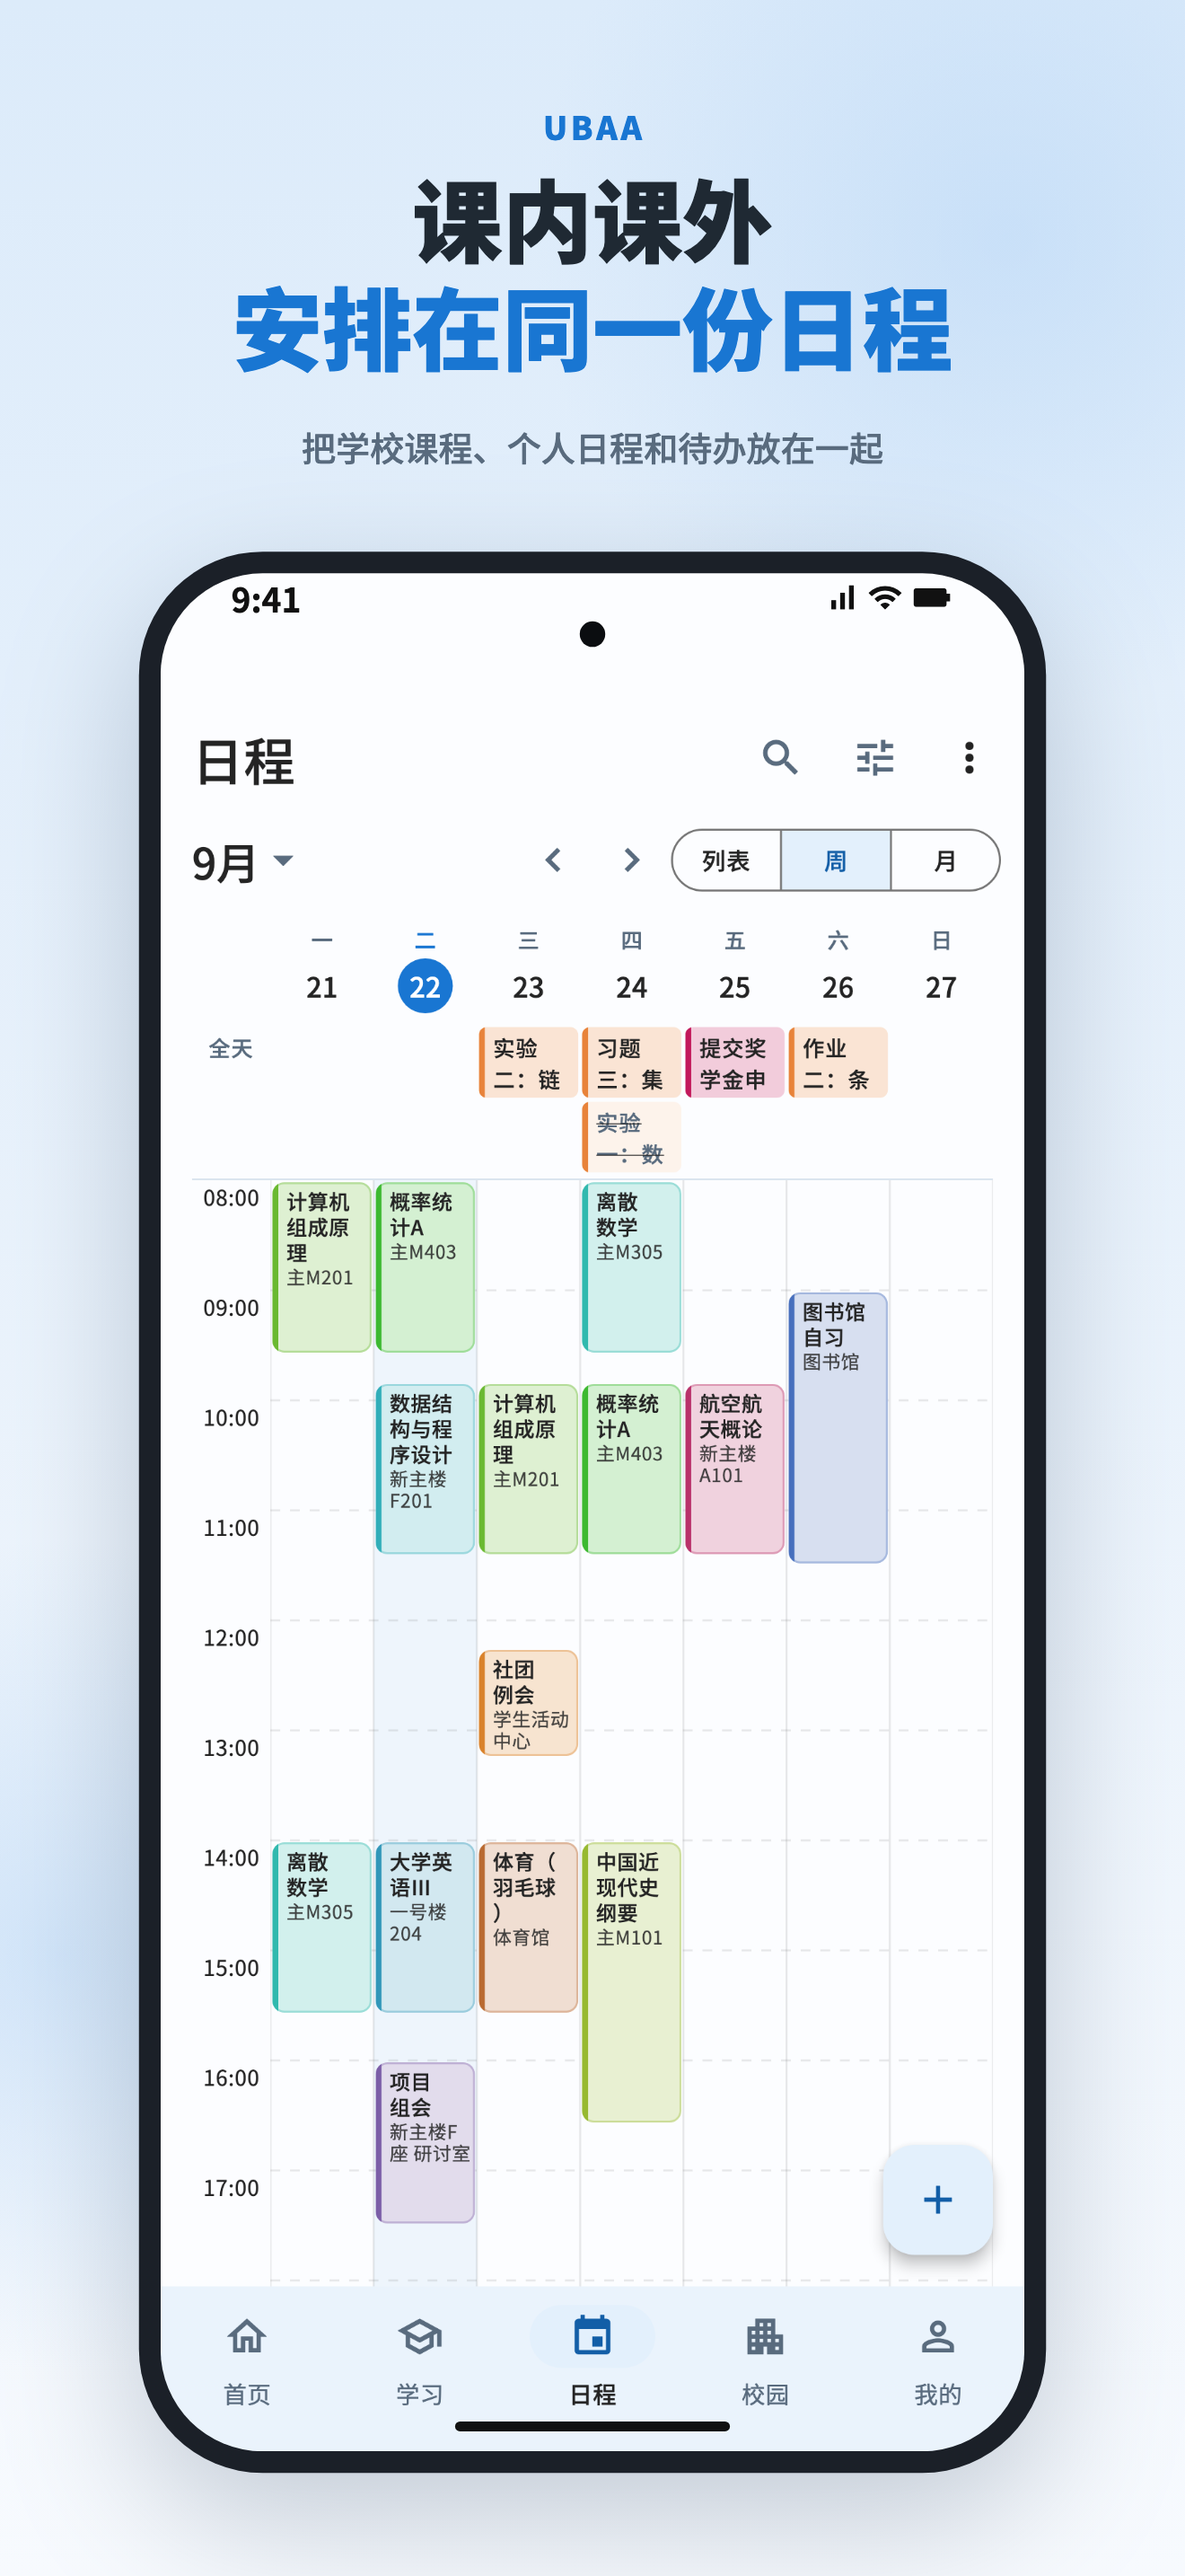
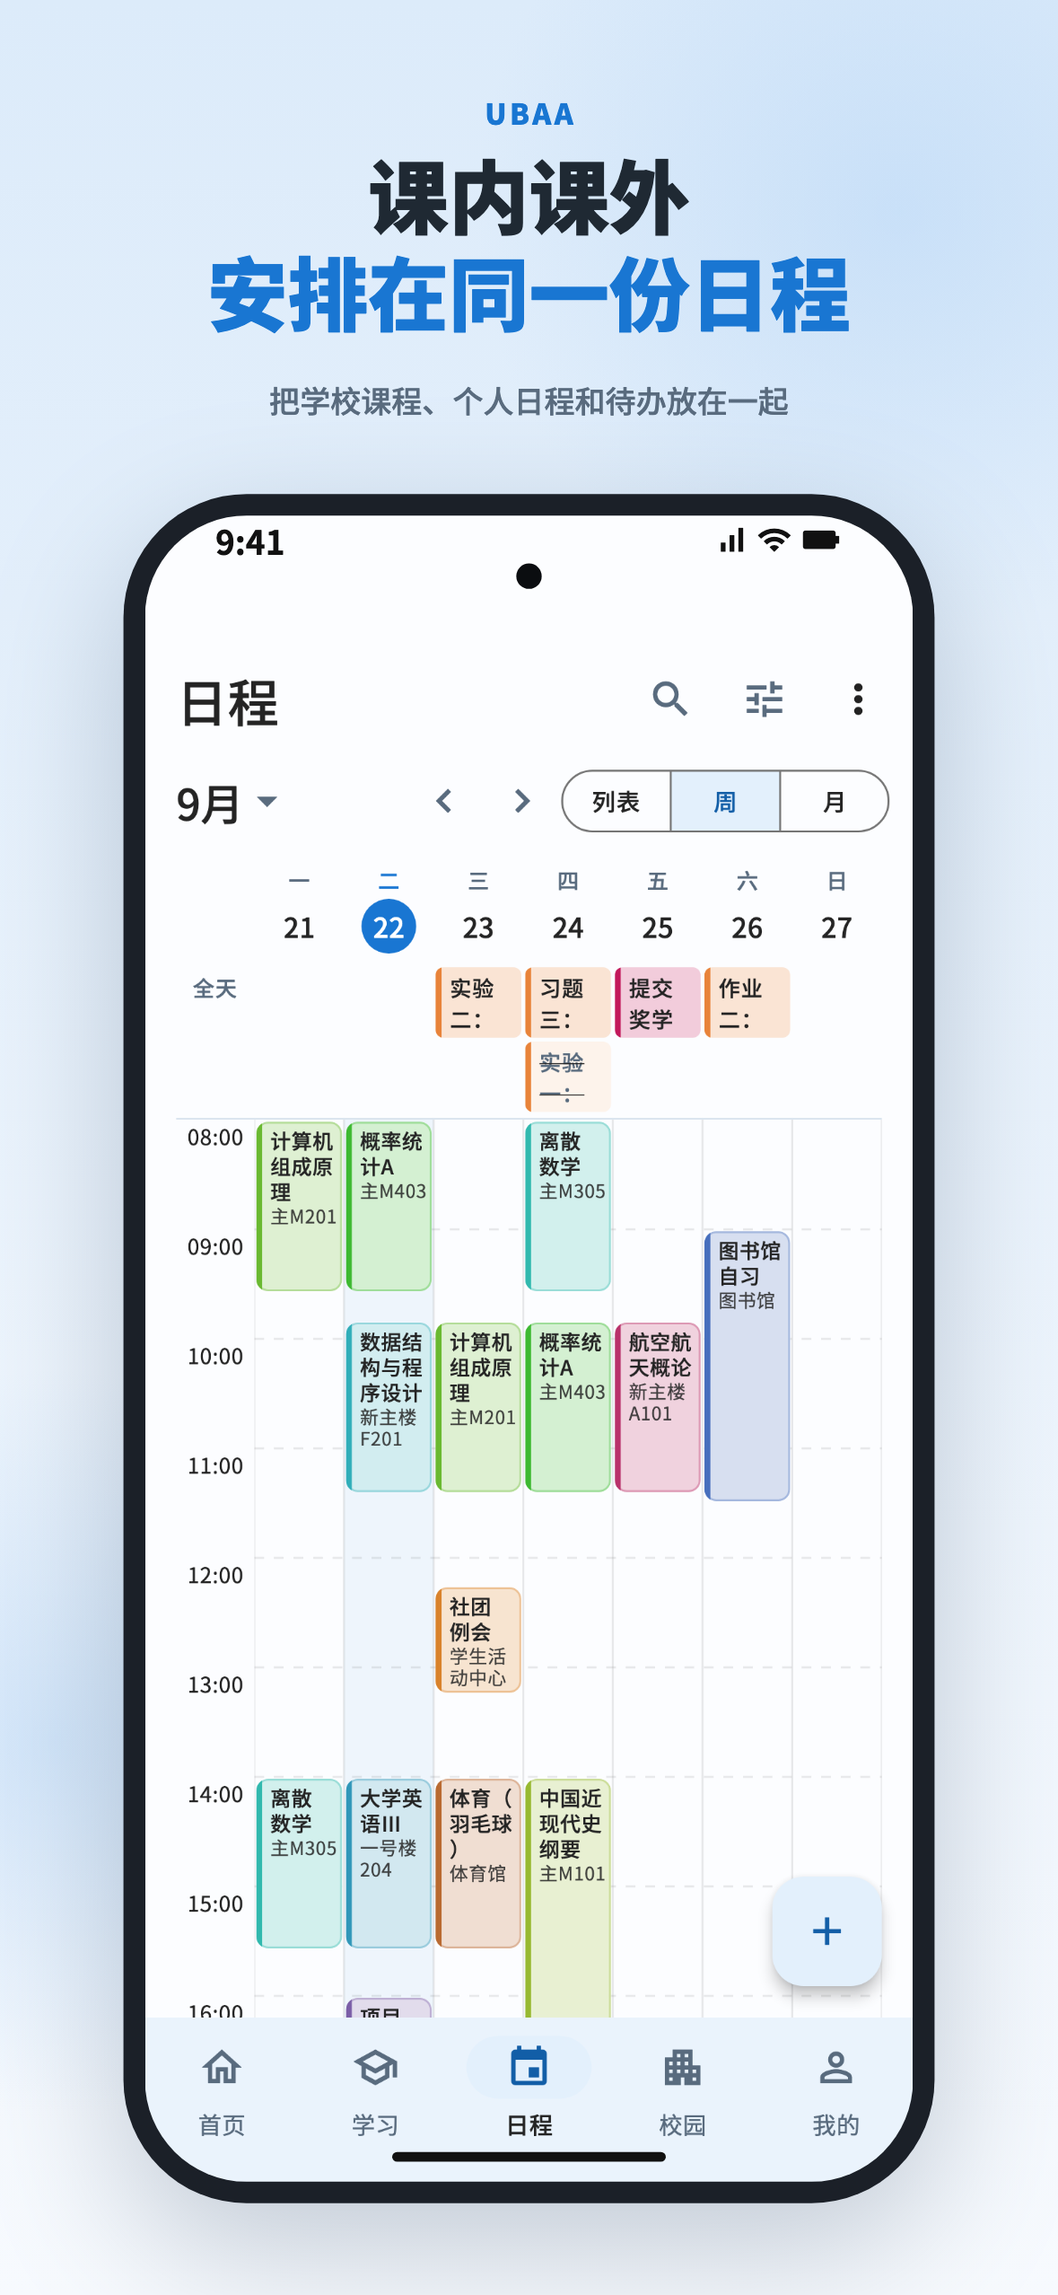
统一手机竖屏与平板横屏宣传图
手机代表图使用 1179 × 2556，平板使用 2732 × 2048。按目标视口重新渲染各六张，更新文档站的图册排版，桌面成品保持不变。商店额外手机尺寸仍由 --all-sizes 导出。

验证：默认和全尺寸导出均通过，默认 15 张逐字节一致；Dart 分析、Flutter 宿主测试、脚本检查和文档站构建通过，浏览器核对图片尺寸和原图链接。

diff --git a/apps/ubaa_flutter/store/support/frame.dart b/apps/ubaa_flutter/store/support/frame.dart
@@ -23,7 +23,7 @@ class StoreFrame extends StatelessWidget {
   final StoreDevice device;
   final ui.Image screen;
 
-  /// 标题分两行：[title] 用正文色，[accent] 用品牌蓝。
+  /// [title] 用正文色，[accent] 用品牌蓝。
   final String title, accent, subtitle;
 
   /// 屏幕内容是否为深色主题；背景与状态栏随之切换。
@@ -33,17 +33,30 @@ class StoreFrame extends StatelessWidget {
   Widget build(BuildContext context) {
     final size = device.canvas;
     final unit = size.shortestSide / 100;
+    final tablet = device == StoreDevice.ipad;
     final headline = switch (device) {
       StoreDevice.iphone ||
+      StoreDevice.iphoneLarge ||
       StoreDevice.iphoneMedium ||
       StoreDevice.android => unit * 7.6,
-      StoreDevice.ipad => unit * 5.6,
+      StoreDevice.ipad => unit * 4.8,
       StoreDevice.desktop => unit * 5.4,
     };
     final top = switch (device) {
+      StoreDevice.ipad => size.height * .027,
       StoreDevice.desktop => size.height * .045,
       _ => size.height * .04,
     };
+    final titleStyle = TextStyle(
+      fontFamily: storeFontFamily,
+      fontSize: headline,
+      height: 1.2,
+      fontWeight: FontWeight.w900,
+      color: dark ? Colors.white : _ink,
+    );
+    final accentStyle = titleStyle.copyWith(
+      color: dark ? const Color(0xFF83BEF7) : _brand,
+    );
     return SizedBox.fromSize(
       size: size,
       child: DecoratedBox(
@@ -76,36 +89,28 @@ class StoreFrame extends StatelessWidget {
                   'UBAA',
                   style: TextStyle(
                     fontFamily: storeFontFamily,
-                    fontSize: unit * 2.7,
+                    fontSize: unit * (tablet ? 2.1 : 2.7),
                     fontWeight: FontWeight.w900,
                     letterSpacing: unit * .28,
                     color: dark ? const Color(0xFF83BEF7) : _brand,
                   ),
                 ),
-                SizedBox(height: headline * .22),
-                Text(
-                  title,
-                  textAlign: TextAlign.center,
-                  style: TextStyle(
-                    fontFamily: storeFontFamily,
-                    fontSize: headline,
-                    height: 1.2,
-                    fontWeight: FontWeight.w900,
-                    color: dark ? Colors.white : _ink,
-                  ),
-                ),
-                Text(
-                  accent,
-                  textAlign: TextAlign.center,
-                  style: TextStyle(
-                    fontFamily: storeFontFamily,
-                    fontSize: headline,
-                    height: 1.2,
-                    fontWeight: FontWeight.w900,
-                    color: dark ? const Color(0xFF83BEF7) : _brand,
-                  ),
-                ),
-                SizedBox(height: headline * .42),
+                SizedBox(height: headline * (tablet ? .13 : .22)),
+                // 横屏把两句标题排在一行，给应用界面留出高度。
+                if (tablet)
+                  Text.rich(
+                    TextSpan(
+                      text: '$title　',
+                      children: [TextSpan(text: accent, style: accentStyle)],
+                    ),
+                    textAlign: TextAlign.center,
+                    style: titleStyle,
+                  )
+                else ...[
+                  Text(title, textAlign: TextAlign.center, style: titleStyle),
+                  Text(accent, textAlign: TextAlign.center, style: accentStyle),
+                ],
+                SizedBox(height: headline * (tablet ? .16 : .42)),
                 Text(
                   subtitle,
                   textAlign: TextAlign.center,
@@ -117,7 +122,7 @@ class StoreFrame extends StatelessWidget {
                     color: dark ? const Color(0xFFB8C7D9) : _muted,
                   ),
                 ),
-                SizedBox(height: headline * .9),
+                SizedBox(height: headline * (tablet ? .43 : .9)),
                 Expanded(
                   child: Padding(
                     padding: EdgeInsets.fromLTRB(
@@ -186,6 +191,7 @@ class _Device extends StatelessWidget {
     // 外框以屏幕逻辑尺寸排版，再整体缩放进可用区域，圆角与状态栏随之等比。
     final bezel = switch (device) {
       StoreDevice.iphone ||
+      StoreDevice.iphoneLarge ||
       StoreDevice.iphoneMedium ||
       StoreDevice.android => 11.0,
       StoreDevice.ipad => 18.0,
@@ -193,7 +199,9 @@ class _Device extends StatelessWidget {
     };
     final titleBar = desktop ? 34.0 : 0.0;
     final radius = switch (device) {
-      StoreDevice.iphone || StoreDevice.iphoneMedium => 52.0,
+      StoreDevice.iphone ||
+      StoreDevice.iphoneLarge ||
+      StoreDevice.iphoneMedium => 52.0,
       StoreDevice.android => 40.0,
       StoreDevice.ipad => 26.0,
       StoreDevice.desktop => 14.0,
@@ -308,7 +316,9 @@ class _StatusBar extends StatelessWidget {
     final ipad = device == StoreDevice.ipad;
     final iconSize = android ? 16.0 : (ipad ? 15.0 : 18.0);
     final camera = switch (device) {
-      StoreDevice.iphone || StoreDevice.iphoneMedium => 13.0,
+      StoreDevice.iphone ||
+      StoreDevice.iphoneLarge ||
+      StoreDevice.iphoneMedium => 13.0,
       StoreDevice.android => 11.0,
       _ => 7.0,
     };

diff --git a/apps/ubaa_flutter/store/support/render.dart b/apps/ubaa_flutter/store/support/render.dart
@@ -12,8 +12,16 @@ const storeFontFamily = 'StoreSans';
 
 /// 商店截图规格：画布是商店要求的像素尺寸，屏幕是应用实际排版的逻辑尺寸。
 enum StoreDevice {
-  // App Store 6.9 英寸 iPhone。
+  // 默认手机竖屏。
   iphone(
+    canvas: Size(1179, 2556),
+    screen: Size(393, 852),
+    pixelRatio: 3,
+    padding: EdgeInsets.only(top: 62, bottom: 34),
+    platform: TargetPlatform.iOS,
+  ),
+  // App Store 大屏 iPhone。
+  iphoneLarge(
     canvas: Size(1320, 2868),
     screen: Size(440, 956),
     pixelRatio: 3,
@@ -28,10 +36,10 @@ enum StoreDevice {
     padding: EdgeInsets.only(top: 62, bottom: 34),
     platform: TargetPlatform.iOS,
   ),
-  // App Store 13 英寸 iPad。
+  // 默认平板横屏。
   ipad(
-    canvas: Size(2064, 2752),
-    screen: Size(1032, 1376),
+    canvas: Size(2732, 2048),
+    screen: Size(1366, 1024),
     pixelRatio: 2,
     padding: EdgeInsets.only(top: 24, bottom: 20),
     platform: TargetPlatform.iOS,
@@ -67,7 +75,11 @@ enum StoreDevice {
   final EdgeInsets padding;
   final TargetPlatform platform;
 
-  String get directory => this == iphoneMedium ? 'iphone_medium' : name;
+  String get directory => switch (this) {
+    iphoneLarge => 'iphone_large',
+    iphoneMedium => 'iphone_medium',
+    _ => name,
+  };
 }
 
 /// 按字体目录加载思源黑体（Noto Sans CJK SC）与 Material 图标字体。

diff --git a/docs/site/features/ScreenshotGallery.vue b/docs/site/features/ScreenshotGallery.vue
@@ -5,8 +5,8 @@ defineProps({ group: { type: String, required: true } })
 
 const groups = {
   phone: {
-    width: 1320,
-    height: 2868,
+    width: 1179,
+    height: 2556,
     shots: [
       ['01_home', '首页', '查看当天的课程、常用功能和待办。'],
       ['02_schedule', '课表', '按周查看课程时间和上课地点。'],
@@ -17,8 +17,8 @@ const groups = {
     ],
   },
   tablet: {
-    width: 2064,
-    height: 2752,
+    width: 2732,
+    height: 2048,
     shots: [
       ['02_schedule', '平板课表', '侧栏和整周课表并排显示。'],
       ['04_grades', '平板成绩', '同页查看学期统计和各门课程成绩。'],
@@ -67,10 +67,7 @@ const groups = {
   margin: 1.5rem 0;
 }
 
-.gallery.tablet {
-  grid-template-columns: repeat(auto-fit, minmax(min(100%, 16rem), 1fr));
-}
-
+.gallery.tablet,
 .gallery.desktop {
   grid-template-columns: minmax(0, 1fr);
 }
@@ -80,6 +77,7 @@ figure {
   margin: 0 auto;
 }
 
+.tablet figure,
 .desktop figure {
   width: 100%;
 }

diff --git a/apps/ubaa_flutter/store/screenshots_test.dart b/apps/ubaa_flutter/store/screenshots_test.dart
@@ -223,7 +223,7 @@ enum _Scene {
     '课内课外',
     '安排在同一份日程',
     '把学校课程、个人日程和待办放在一起',
-    '项目组会',
+    '图书馆自习',
     destination: UiDestination.agenda,
   ),
   grades(

diff --git a/docs/runbooks/flutter-release.md b/docs/runbooks/flutter-release.md
@@ -96,11 +96,15 @@ bash scripts/release/store-screenshots.sh
 
 | 成品目录 | 尺寸（像素） | 用途 |
 |---|---:|---|
-| `phone/` | 1320 × 2868 | 手机代表图、iPhone 大屏 |
-| `tablet/` | 2064 × 2752 | 平板代表图、13 英寸 iPad |
+| `phone/` | 1179 × 2556 | 手机代表图、iPhone 中屏竖图 |
+| `tablet/` | 2732 × 2048 | 平板代表图、13 英寸 iPad 横图 |
 | `desktop/` | 2880 × 1800 | 桌面版宣传 |
 
-需要 iPhone 中屏或 AppGallery 手机竖图时，运行 `bash scripts/release/store-screenshots.sh --all-sizes`。同一批次会在 `ready/phone/1206x2622/` 和 `ready/phone/1080x1920/` 另外生成这两种尺寸，供商店上传。
+需要为 iPhone 大屏档单独提供截图，或生成其他手机商店尺寸时，运行 `bash scripts/release/store-screenshots.sh --all-sizes`。同一批次会生成三套额外的手机竖图：
+
+- `ready/phone/1320x2868/`：iPhone 大屏档。
+- `ready/phone/1206x2622/`：iPhone 中屏档的另一种尺寸。
+- `ready/phone/1080x1920/`：AppGallery 手机图。
 
 脚本把原图写入 `.ubaa_local/store_screenshots/run.*/raw/`，将不带透明通道的 RGB PNG 写入同批次的 `ready/` 并打印实际路径。核对界面、文案、尺寸与清晰度后，把默认三组 PNG 复制到[网站宣传资源目录](../site/public/screenshots/)，保持文件名和子目录不变。Git 追踪三组代表图、源数据和渲染代码，额外尺寸留在本地批次中。图片换名或增删时同步调整[应用截图页](../site/features/screenshots.md)，执行 `npm run docs:build`。
 

diff --git a/docs/site/features/screenshots.md b/docs/site/features/screenshots.md
@@ -16,7 +16,7 @@ import ScreenshotGallery from './ScreenshotGallery.vue'
 
 ## 平板
 
-从侧栏切换功能，主区域可以显示整周课表或一学期的成绩。
+横屏时，从侧栏切换功能，主区域可以显示整周课表或一学期的成绩。
 
 <ScreenshotGallery group="tablet" />
 
